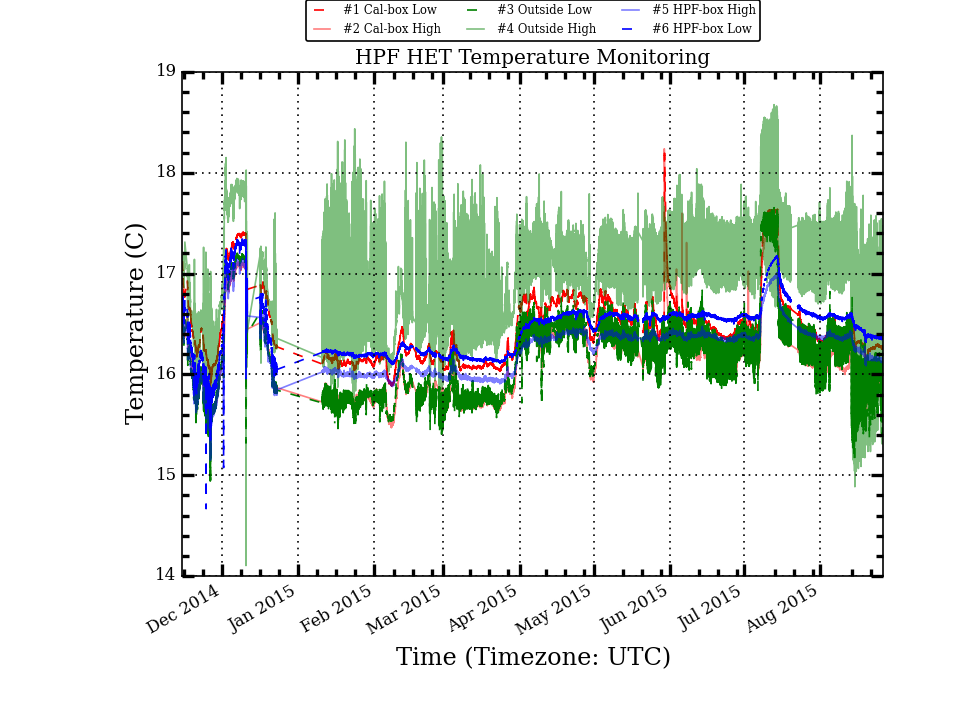
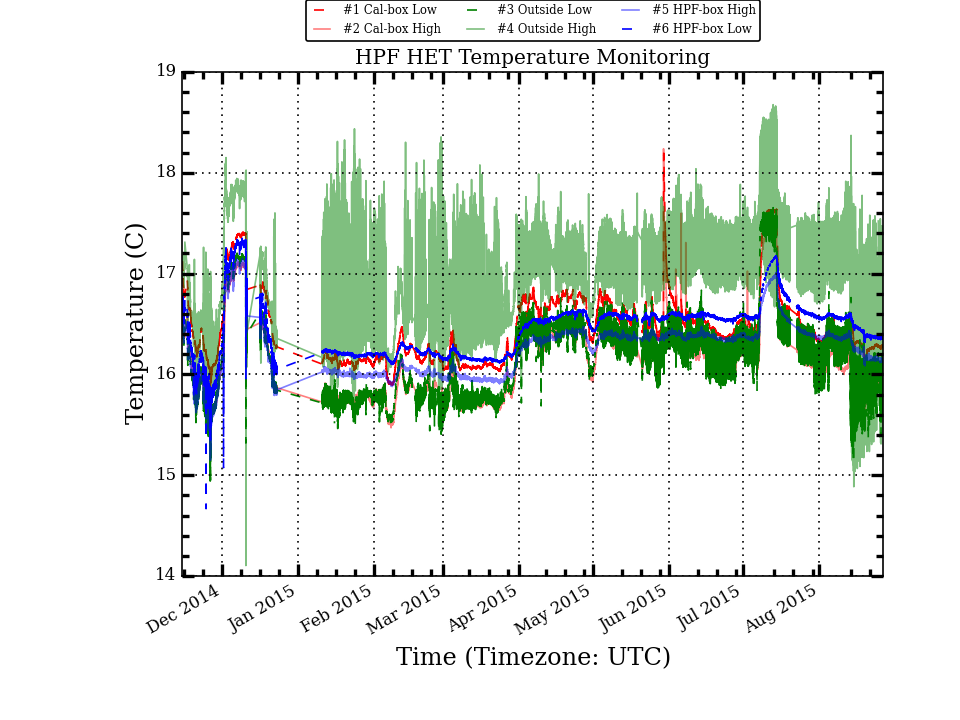
Update HPF Temp Plots

diff --git a/research/hpf_temps/plots/LakeShoreLogTotal_stats.html b/research/hpf_temps/plots/LakeShoreLogTotal_stats.html
@@ -12,7 +12,7 @@
   <TD>Cal_Low</TD>
   <TD>16.470</TD>
   <TD>0.351</TD>
-  <TD>16.442</TD>
+  <TD>16.441</TD>
   <TD>18.195</TD>
   <TD>15.840</TD>
   <TD>2.355</TD>
@@ -21,7 +21,7 @@
   <TD>Cal_High</TD>
   <TD>16.126</TD>
   <TD>0.382</TD>
-  <TD>16.090</TD>
+  <TD>16.089</TD>
   <TD>18.238</TD>
   <TD>15.410</TD>
   <TD>2.828</TD>
@@ -29,17 +29,17 @@
  <TR>
   <TD>Out_Low</TD>
   <TD>16.187</TD>
-  <TD>0.414</TD>
-  <TD>16.198</TD>
+  <TD>0.413</TD>
+  <TD>16.197</TD>
   <TD>17.654</TD>
   <TD>14.942</TD>
   <TD>2.712</TD>
  </TR>
  <TR>
   <TD>Out_High</TD>
-  <TD>16.970</TD>
+  <TD>16.969</TD>
   <TD>0.488</TD>
-  <TD>17.035</TD>
+  <TD>17.034</TD>
   <TD>18.676</TD>
   <TD>14.104</TD>
   <TD>4.572</TD>
@@ -47,7 +47,7 @@
  <TR>
   <TD>HPF_High</TD>
   <TD>16.255</TD>
-  <TD>0.277</TD>
+  <TD>0.276</TD>
   <TD>16.344</TD>
   <TD>17.147</TD>
   <TD>15.149</TD>
